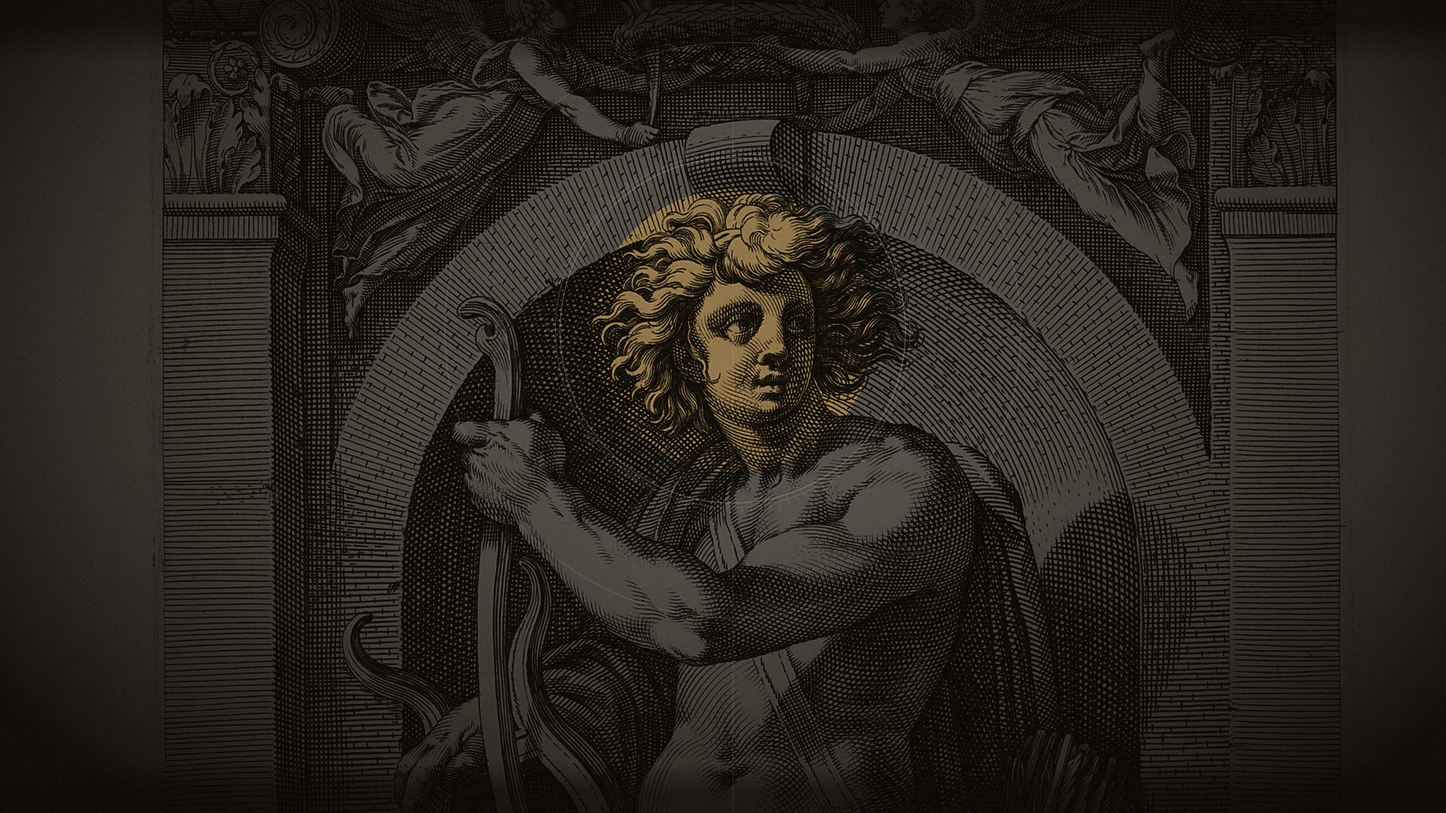
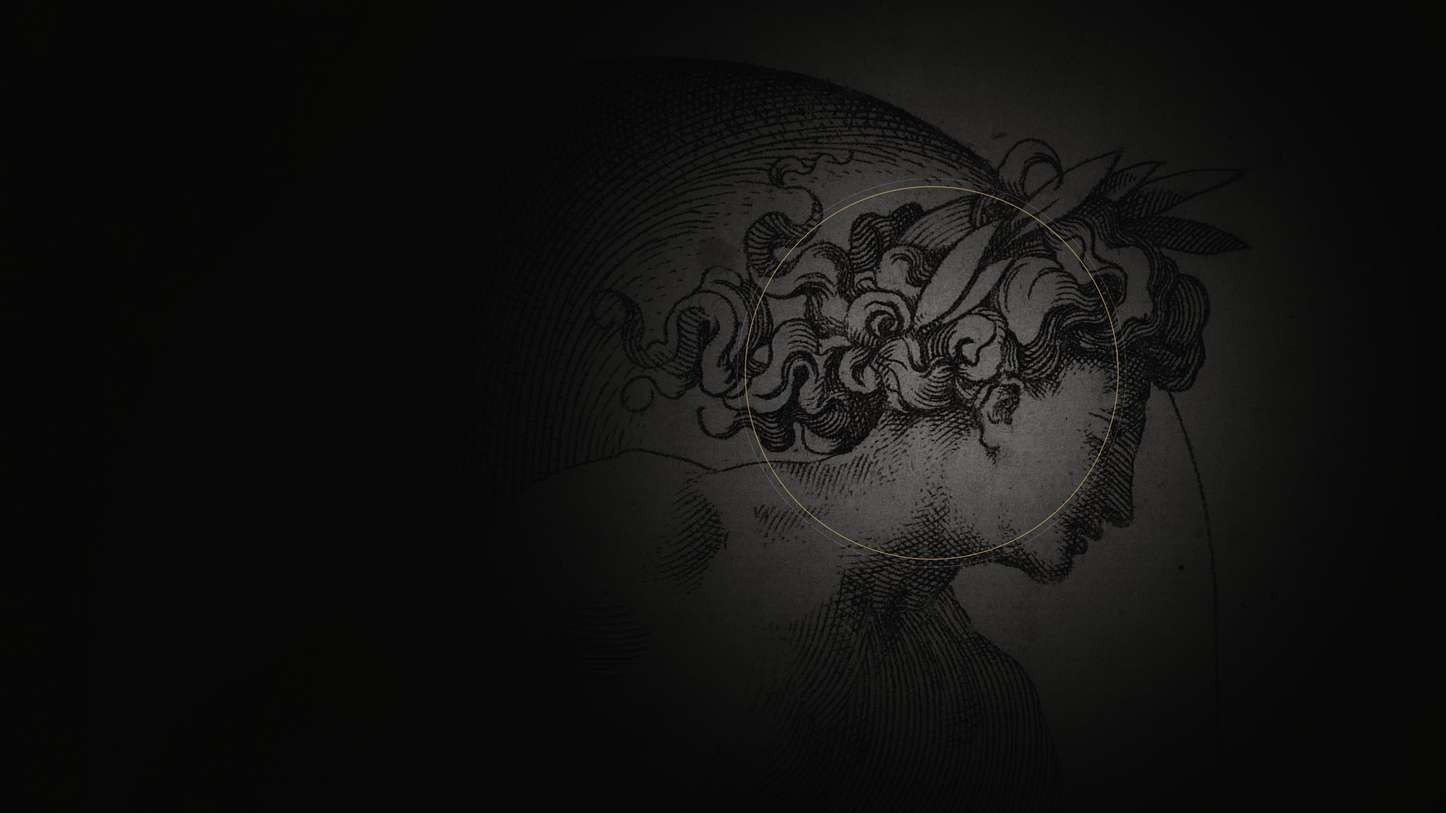
feat(wallpapers)!: replace the plates with one series, dark and light
Seven gods are now the Gods in Niches by Jacob Binck after Rosso Fiorentino (Rijksmuseum, public domain), printed from the scan at its full resolution so the sheet fills the screen. Janus keeps his own sheet. Ink and paper are neutral; the only colour is the ring on the head of the god. Every god has a dark plate (<god>.jpg) and a light one (<god>-light.jpg).

BREAKING CHANGE: a plate in plates.json or source.toml no longer takes paper and vig, and the disc is the ring on the head; make the plates again with cargo strixui wallpapers or cargo strixui pack

diff --git a/tools/src/wallpapers.rs b/tools/src/wallpapers.rs
@@ -1,14 +1,13 @@
-//! The engraving wallpapers: one plate per theme, printed in two inks of its colours.
+//! The engraving wallpapers: two plates per theme, a dark and a light one.
 //!
-//! The scan comes from an open-access collection (Art Institute of Chicago, CC0, or Rijksmuseum,
-//! public domain), is cropped to the upper body at 16:9 and printed in two inks: paper becomes the
-//! cream `line` colour, ink becomes the theme's `background`, and ink inside one disc becomes its
-//! `accent`. The picture is darkened toward the edges, hardest along the top (bar) and the bottom
-//! (dock), gets a little grain and fine lines around the disc.
+//! The scan comes from an open-access collection (Rijksmuseum, public domain, or Art Institute of
+//! Chicago, CC0) at its full resolution and is cropped at 16:9 so it fills the screen. Ink and
+//! paper are neutral; the only colour is the theme's. The dark plate is almost black with a glow
+//! around a fine ring in the accent on the head of the god. The light plate is lit from the
+//! middle, and the paper inside the ring takes the accent.
 
 use image::imageops::{self, FilterType};
 use image::{GrayImage, Luma, Rgb, RgbImage};
-use std::f64::consts::PI;
 use std::fs;
 use std::io::BufWriter;
 use std::path::{Path, PathBuf};
@@ -16,7 +15,10 @@ use std::process::Command;
 
 pub const W: u32 = 2560;
 pub const H: u32 = 1440;
-const CREAM: [f64; 3] = [216.0, 208.0, 192.0];
+/// Ink, paper and hair line of every plate
+const INK: [f64; 3] = [8.0, 7.0, 7.0];
+const PAPER: [f64; 3] = [186.0, 184.0, 178.0];
+const LINE: [f64; 3] = [214.0, 208.0, 196.0];
 
 /// A plate source: aic:<IIIF id>, rijks:<Micrio id>:<width> or file:<path>
 pub fn fetch(cache: &Path, base: &Path, source: &str) -> PathBuf {
@@ -68,12 +70,15 @@ pub struct Disc {
     pub r: f64,
 }
 
+/// The dark plate or the light one
+#[derive(Clone, Copy, PartialEq, Eq)]
+pub enum Mode {
+    Dark,
+    Light,
+}
+
 pub struct Print<'a> {
-    pub background: &'a str,
     pub accent: &'a str,
-    /// Brightness of the paper, lower for a print with much bare paper
-    pub paper: f64,
-    pub vignette: f64,
     /// Discs in the second colour of a dual-colour theme
     pub more: Vec<(Disc, String)>,
 }
@@ -117,120 +122,70 @@ fn percentile(sorted: &[u8], p: f64) -> f64 {
 }
 
 /// Grain: a small deterministic generator with Box-Muller, the same picture every build
-struct Grain(u64);
-
-impl Grain {
-    fn next(&mut self) -> f64 {
-        // splitmix64
-        self.0 = self.0.wrapping_add(0x9e37_79b9_7f4a_7c15);
-        let mut z = self.0;
-        z = (z ^ (z >> 30)).wrapping_mul(0xbf58_476d_1ce4_e5b9);
-        z = (z ^ (z >> 27)).wrapping_mul(0x94d0_49bb_1331_11eb);
-        ((z ^ (z >> 31)) >> 11) as f64 / (1u64 << 53) as f64
-    }
-    fn normal(&mut self, sigma: f64) -> f64 {
-        let u = self.next().max(f64::MIN_POSITIVE);
-        (-2.0 * u.ln()).sqrt() * (2.0 * PI * self.next()).cos() * sigma
-    }
-}
-
 fn disc_mask(x: f64, y: f64, d: &Disc) -> f64 {
     let dist = ((x - d.x).powi(2) + (y - d.y).powi(2)).sqrt();
     ((d.r - dist) / 1.5 + 0.5).clamp(0.0, 1.0)
 }
 
-/// Coverage of a one-pixel line at distance `dist` from its centre
-fn hair(dist: f64) -> f64 {
-    (1.0 - dist.abs()).clamp(0.0, 1.0)
+/// Coverage of a circle line of `width` pixels with radius `r`, at `dist` from the centre
+fn ring(dist: f64, r: f64, width: f64) -> f64 {
+    (width / 2.0 + 0.5 - (dist - r).abs()).clamp(0.0, 1.0)
 }
 
-/// The fine lines around one disc: two circles, a graduated ring and, around the first disc, a wide circle
-fn rings(x: f64, y: f64, d: &Disc, first: bool) -> f64 {
-    let dist = ((x - d.x).powi(2) + (y - d.y).powi(2)).sqrt();
-    let mut a: f64 = 0.0;
-    let mut circles = vec![(d.r + 56.0, 120.0), (d.r + 64.0, 70.0)];
-    if first {
-        circles.push((d.r + 260.0, 60.0));
-    }
-    for (rr, alpha) in circles {
-        a = a.max(hair(dist - rr + 0.5) * alpha / 255.0);
-    }
-    let r1 = d.r + 64.0;
-    if dist >= r1 - 1.0 && dist <= r1 + 19.0 {
-        // the nearest tick, one every 3 degrees, a long one every 15
-        let angle = (y - d.y).atan2(x - d.x).to_degrees().rem_euclid(360.0);
-        let i = ((angle / 3.0).round() as i64 * 3).rem_euclid(360);
-        let len = if i % 15 == 0 { 18.0 } else { 9.0 };
-        let t = (i as f64).to_radians();
-        let (ux, uy) = (t.cos(), t.sin());
-        let (px, py) = (x - d.x, y - d.y);
-        let along = px * ux + py * uy;
-        let across = -px * uy + py * ux;
-        if along >= r1 - 0.5 && along <= r1 + len + 0.5 {
-            a = a.max(hair(across) * 70.0 / 255.0);
-        }
-    }
-    a
-}
-
-/// Prints `scan` as a wallpaper of 2560 by 1440 in the colours of one theme
-pub fn make(scan: &Path, box_: [f64; 3], disc: Disc, print: &Print, out: &Path) {
+/// Prints `scan` as a wallpaper of 2560 by 1440 in the colour of one theme
+pub fn make(scan: &Path, box_: [f64; 3], disc: Disc, print: &Print, mode: Mode, out: &Path) {
     let gray = image::open(scan)
         .unwrap_or_else(|e| panic!("cannot read {}: {e}", scan.display()))
         .to_luma8();
     let g = crop(&gray, box_);
     let mut sorted: Vec<u8> = g.as_raw().clone();
     sorted.sort_unstable();
-    let (lo, hi) = (percentile(&sorted, 3.0), percentile(&sorted, 97.0));
-    let (bg, acc) = (rgb(print.background), rgb(print.accent));
-    let more: Vec<(&Disc, [f64; 3])> = print.more.iter().map(|(d, c)| (d, rgb(c))).collect();
-    let mut grain = Grain(3);
-    let (w, h) = (f64::from(W), f64::from(H));
+    let (lo, hi) = (percentile(&sorted, 1.5), percentile(&sorted, 93.0));
+    let mut discs: Vec<(&Disc, [f64; 3])> = vec![(&disc, rgb(print.accent))];
+    discs.extend(print.more.iter().map(|(d, c)| (d, rgb(c))));
+    // The light plate is lit from between the discs
+    let n = discs.len() as f64;
+    let cx = discs.iter().map(|(d, _)| d.x).sum::<f64>() / n;
+    let cy = discs.iter().map(|(d, _)| d.y).sum::<f64>() / n;
     let mut img = RgbImage::new(W, H);
     for (px, py, p) in img.enumerate_pixels_mut() {
         let (x, y) = (f64::from(px), f64::from(py));
         let l = ((f64::from(g.get_pixel(px, py)[0]) - lo) / (hi - lo))
             .clamp(0.0, 1.0)
-            .powf(1.7); // 0 ink, 1 paper
-        let m = disc_mask(x, y, &disc);
-        // Outside the disc: dark ink on dim cream paper. Inside, the paper takes the accent, a little dulled
-        // by the cream under it, and the ink stays dark, so light accents keep the engraving readable
-        let mut pap = [0.0; 3];
-        for k in 0..3 {
-            pap[k] = CREAM[k] * print.paper * (1.0 - m)
-                + (acc[k] * 0.90 + CREAM[k] * print.paper * 0.12) * m;
-        }
-        let mut f_disc = m * 0.9;
-        for (d, col) in &more {
-            let mk = disc_mask(x, y, d);
-            for k in 0..3 {
-                pap[k] = pap[k] * (1.0 - mk) + (col[k] * 0.90 + CREAM[k] * print.paper * 0.12) * mk;
+            .powf(1.25); // 0 ink, 1 paper
+        let light = match mode {
+            Mode::Light => 0.07 + 0.74 * (-((x - cx).hypot(y - cy) / 760.0).powf(2.2)).exp(),
+            Mode::Dark => {
+                let glow = |d: &Disc| {
+                    0.62 * (-((x - d.x).hypot(y - d.y) / (d.r * 1.3).max(300.0)).powi(2)).exp()
+                };
+                (0.035 + discs.iter().map(|(d, _)| glow(d)).sum::<f64>()).min(0.7)
             }
-            f_disc = f_disc.max(mk * 0.9);
+        };
+        let mut paper = PAPER.map(|c| c * light);
+        if mode == Mode::Light {
+            for (d, col) in &discs {
+                let m = disc_mask(x, y, d);
+                for k in 0..3 {
+                    paper[k] = paper[k] * (1.0 - m) + col[k] * (0.34 + 0.62 * light) * m;
+                }
+            }
         }
-        let dv = (((x - disc.x) / (w * 0.62)).powi(2) + ((y - disc.y) / (h * 0.78)).powi(2)).sqrt();
-        let v = 1.0 - print.vignette * ((dv - 0.25) / 0.75).clamp(0.0, 1.0).powf(1.4);
-        let top = (y / 110.0).clamp(0.35, 1.0);
-        let bottom = ((h - y) / 90.0).clamp(0.45, 1.0);
-        let f = (v * top * bottom).max(f_disc);
-        let noise = grain.normal(3.2);
-        // hair lines in cream: the rings around every disc and the meridian through the first
-        let mut a = rings(x, y, &disc, true);
-        for (d, _) in &more {
-            a = a.max(rings(x, y, d, false));
+        let mut c = [0, 1, 2].map(|k| INK[k] + (paper[k] - INK[k]) * l);
+        // Two hair lines around every disc: its edge, in the accent on the dark plate, and one outside it
+        for (d, col) in &discs {
+            let dist = (x - d.x).hypot(y - d.y);
+            let (edge, outer) = match mode {
+                Mode::Dark => ((ring(dist, d.r, 1.6) * 0.92, *col), 0.27),
+                Mode::Light => ((ring(dist, d.r, 2.2) * 0.92, LINE), 0.47),
+            };
+            let outer = ring(dist, d.r + 14.0, 1.0) * outer;
+            for k in 0..3 {
+                c[k] = c[k] * (1.0 - edge.0) + edge.1[k] * edge.0;
+                c[k] = c[k] * (1.0 - outer) + LINE[k] * outer;
+            }
         }
-        a = a.max(hair(x - disc.x + 0.5) * 40.0 / 255.0);
-        let mut c = [0u8; 3];
-        for k in 0..3 {
-            let ink = bg[k] * (1.0 - l) + pap[k] * l;
-            let printed = (bg[k] + (ink - bg[k]) * f + noise)
-                .clamp(0.0, 255.0)
-                .floor();
-            c[k] = (printed * (1.0 - a) + CREAM[k] * a)
-                .round()
-                .clamp(0.0, 255.0) as u8;
-        }
-        *p = Rgb(c);
+        *p = Rgb(c.map(|v| v.round().clamp(0.0, 255.0) as u8));
     }
     if let Some(dir) = out.parent() {
         fs::create_dir_all(dir).expect("the wallpaper folder");
@@ -291,7 +246,7 @@ pub fn three(v: &serde_json::Value) -> [f64; 3] {
     [f(&a[0]), f(&a[1]), f(&a[2])]
 }
 
-/// strixui wallpapers [god ...]: remakes the plates of the eight gods in src/wallpapers/
+/// strixui wallpapers [god ...]: remakes the dark and the light plate of the gods in src/wallpapers/
 pub fn gods(src: &crate::Src, gods: &crate::gods::Gods, names: &[String]) {
     let plates = crate::read_json(&src.root.join("design/plates.json"));
     let cache = src.repo.join("build/engravings");
@@ -305,24 +260,28 @@ pub fn gods(src: &crate::Src, gods: &crate::gods::Gods, names: &[String]) {
         let t = gods.colours(n);
         let [x, y, r] = three(&p["disc"]);
         let print = Print {
-            background: crate::gods::get(&t, "background"),
             accent: crate::gods::get(&t, "accent"),
-            paper: p.get("paper").map(f).unwrap_or(0.46),
-            vignette: p.get("vig").map(f).unwrap_or(0.92),
             more: Vec::new(),
         };
-        let out = src.root.join("wallpapers").join(format!("{n}.jpg"));
-        make(
-            &fetch(&cache, &src.repo, p["source"].as_str().expect("source")),
-            three(&p["crop"]),
-            Disc { x, y, r },
-            &print,
-            &out,
-        );
-        println!(
-            "{n}.jpg  {} bytes  ({})",
-            fs::metadata(&out).map(|m| m.len()).unwrap_or(0),
-            p["credit"].as_str().unwrap_or("")
-        );
+        let scan = fetch(&cache, &src.repo, p["source"].as_str().expect("source"));
+        for (mode, file) in [
+            (Mode::Dark, format!("{n}.jpg")),
+            (Mode::Light, format!("{n}-light.jpg")),
+        ] {
+            let out = src.root.join("wallpapers").join(&file);
+            make(
+                &scan,
+                three(&p["crop"]),
+                Disc { x, y, r },
+                &print,
+                mode,
+                &out,
+            );
+            println!(
+                "{file}  {} bytes  ({})",
+                fs::metadata(&out).map(|m| m.len()).unwrap_or(0),
+                p["credit"].as_str().unwrap_or("")
+            );
+        }
     }
 }

diff --git a/tools/src/pack.rs b/tools/src/pack.rs
@@ -26,7 +26,7 @@
 use crate::colour::{contrast, oklch, to_oklch};
 use crate::gods::{Gods, get, lighten_to, max_luminance};
 use crate::targets::{self, REQUIRED, TERMINAL, Table};
-use crate::wallpapers::{self, Disc, Print};
+use crate::wallpapers::{self, Disc, Mode, Print};
 use crate::{Src, py, read, read_json, write};
 use regex::Regex;
 use serde_json::Value;
@@ -270,10 +270,7 @@ pub fn build(src: &Src, gods: &Gods, repo: &Path, only_check: bool) -> bool {
             .unwrap_or_else(|| vec![0.0, 0.0, 1.0]);
         let disc = nums(&plate["disc"]);
         let print = Print {
-            background: tab.c("background"),
             accent: tab.c("accent"),
-            paper: plate.get("paper").map(num).unwrap_or(0.46),
-            vignette: plate.get("vig").map(num).unwrap_or(0.92),
             more,
         };
         wallpapers::make(
@@ -285,6 +282,7 @@ pub fn build(src: &Src, gods: &Gods, repo: &Path, only_check: bool) -> bool {
                 r: disc[2],
             },
             &print,
+            Mode::Dark,
             &d.join("wallpaper.jpg"),
         );
         println!(

diff --git a/src/docs/wallpapers.md b/src/docs/wallpapers.md
@@ -1,10 +1,10 @@
 # Wallpapers
 
-The plates of the eight god themes: Roman gods, each an engraving printed in two inks of the theme, with one disc in the god's colour. Sources: Art Institute of Chicago, open-access collection, released under CC0; Rijksmuseum, open data, Public Domain Mark. Each file is 2560 by 1440 and made by `cargo strixui wallpapers`.
+The plates of the eight god themes: Roman gods, each an engraving in neutral ink and paper with one ring in the god's colour on his head. Every god has two plates: `<god>.jpg` for the dark variant and `<god>-light.jpg` for the light one. Seven are one series, the Gods in Niches engraved by Jacob Binck after Giovanni Jacopo Caraglio and Rosso Fiorentino; Janus is not part of that series and keeps his own sheet. Sources: Rijksmuseum, open data, Public Domain Mark. Each file is 2560 by 1440 and made by `cargo strixui wallpapers` from the scan at its full resolution.
 
 {{PLATES}}
 - `star-chart.svg` — the plain fallback without a picture: cream lines and the disc. Own drawing. Colours are fixed in the file; `Kit.wallpaper()` gives the version that follows the tokens.
 
-Treatment of a plate: crop to the head and upper body at 16:9; paper becomes `line` at 46%, ink becomes the theme's `background`; inside the disc the paper becomes the theme's `accent` at 90% with a little of the cream under it; darken toward the edges, hardest along the top 110px and the bottom 90px; add fine grain.
+Treatment of a plate: crop at 16:9 so the sheet fills the screen and its edge never shows; ink is near black and paper a neutral grey, so the only colour is the theme's. Dark: the plate is almost black, with a neutral glow around a fine ring in the `accent` on the head. Light: the plate is lit from the middle and falls off to black at the edges, and the paper inside the ring takes the `accent`. No grain, no second crop pasted in: the ring is a lens over the one picture.
 
 Add further gods only from collections that state public-domain status, give each a theme in `src/design/gods.json` and a plate in `src/design/plates.json`, treat it the same way, and list title, engraver, date, source and licence here.
